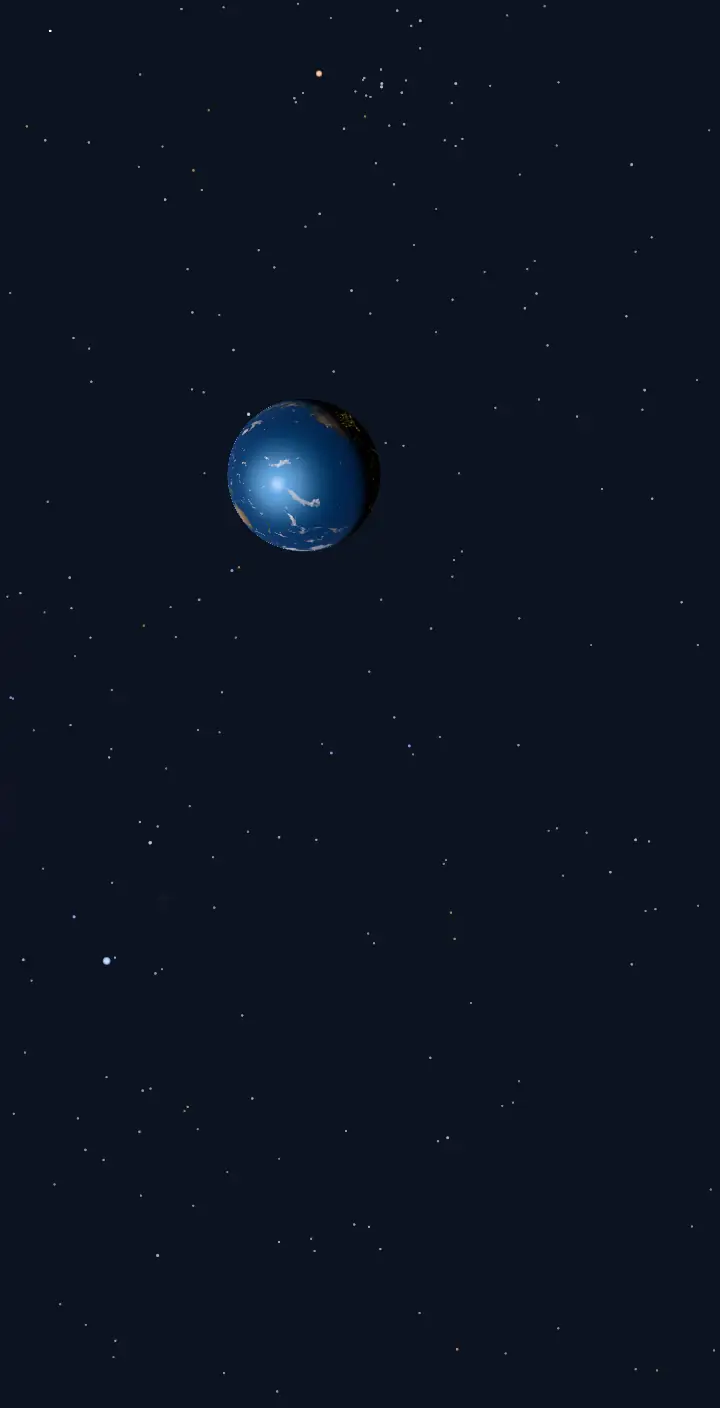
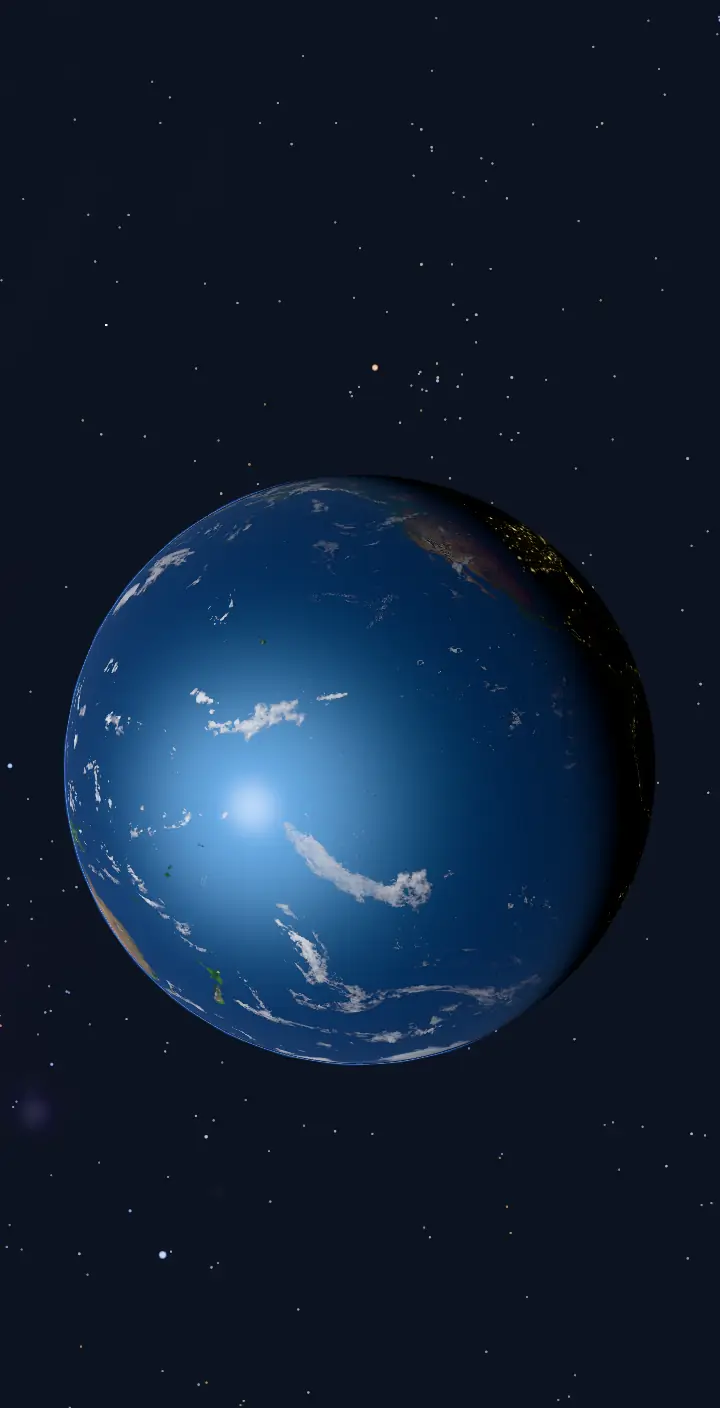
chore: los ocho pósters del explorador, regenerados con el build final (la interfaz de la 9c, la Tierra y el Sol realzados y el suelo del cielo: revisión de la fase 9b, hallazgo 2), y el alto del póster del cielo en el móvil, el suyo (1424)

Changed region(s): [[0.0917, 0.2812, 0.9167, 0.7812], [0.0306, 0.7812, 0.0611, 0.8125]]

diff --git a/src/app/features/viewer/viewer-poster.ts b/src/app/features/viewer/viewer-poster.ts
@@ -11,7 +11,12 @@ import type { ExplorerView } from '../../scene';
   selector: 'tls-viewer-poster',
   template: `
     <picture>
-      <source media="(max-width: 640px)" [srcset]="mobile()" width="720" height="1408" />
+      <source
+        media="(max-width: 640px)"
+        [srcset]="mobile()"
+        width="720"
+        [attr.height]="mobileHeight()"
+      />
       <img
         class="poster"
         [src]="desktop()"
@@ -42,4 +47,9 @@ export class ViewerPoster {
   readonly view = input.required<ExplorerView>();
   protected readonly desktop = computed(() => `img/poster-${this.view()}-escritorio.webp`);
   protected readonly mobile = computed(() => `img/poster-${this.view()}-movil.webp`);
+  /**
+   * El alto del lienzo en el móvil de `build-poster.mjs` (360 × 760 a 2×): en el cielo, sin la cabecera
+   * de las demás vistas, algo más alto (la interfaz de la 9c; cierre de la fase 9b).
+   */
+  protected readonly mobileHeight = computed(() => (this.view() === 'sky' ? 1424 : 1408));
 }
